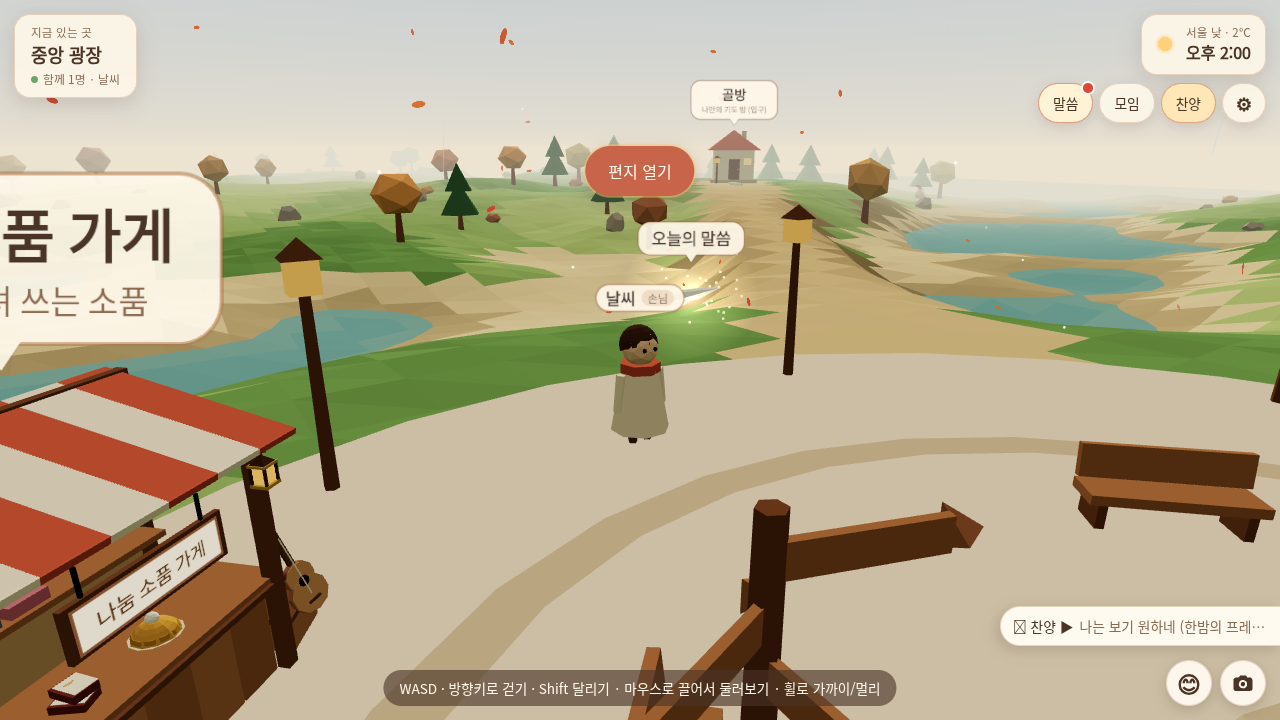
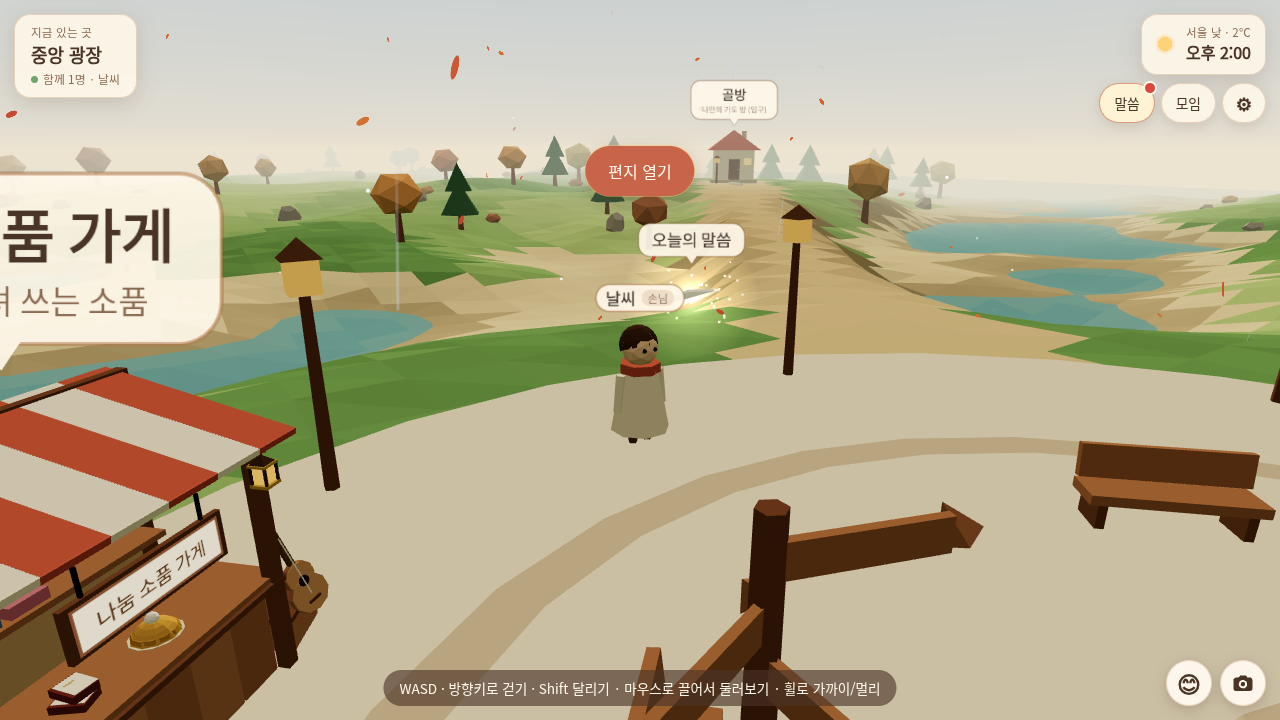
feat(weather): clouds drift west to east across the sky, faster with the real wind
Claude-Session: https://claude.ai/code/session_01QsWPXXpkTAwZLNvoEFaFKZ

diff --git a/client/src/world/Weather.ts b/client/src/world/Weather.ts
@@ -100,6 +100,13 @@ export class Weather {
   private readonly fireflies: Particles;
   private readonly clouds: THREE.InstancedMesh<THREE.BufferGeometry, THREE.MeshLambertMaterial>;
   private readonly cloudGroup = new THREE.Group();
+  /** Per-cloud layout; they drift across the sky with the wind and wrap around. */
+  private readonly cloudBase: { x: number; y: number; z: number; rot: number; w: number }[] = [];
+  private cloudDrift = 0;
+  private readonly cm = new THREE.Matrix4();
+  private readonly cq = new THREE.Quaternion();
+  private readonly cs = new THREE.Vector3();
+  private readonly cp = new THREE.Vector3();
   private readonly decor: SeasonDecor;
   /** Smoothed look (fades between kinds over a few seconds). */
   private readonly look: Look = { ...BASE };
@@ -169,10 +176,11 @@ export class Weather {
     for (let i = 0; i < CLOUDS_MAX; i++) {
       const a = i * 2.39996;
       const r = 150 + ((i * 53) % 90);
-      p.set(Math.cos(a) * r, 34 + ((i * 29) % 30), Math.sin(a) * r);
-      q.setFromAxisAngle(THREE.Object3D.DEFAULT_UP, a * 1.7);
-      const w = 16 + ((i * 17) % 14);
-      s.set(w, w * 0.36, w * 0.62);
+      const base = { x: Math.cos(a) * r, y: 34 + ((i * 29) % 30), z: Math.sin(a) * r, rot: a * 1.7, w: 16 + ((i * 17) % 14) };
+      this.cloudBase.push(base);
+      p.set(base.x, base.y, base.z);
+      q.setFromAxisAngle(THREE.Object3D.DEFAULT_UP, base.rot);
+      s.set(base.w, base.w * 0.36, base.w * 0.62);
       this.clouds.setMatrixAt(i, m.compose(p, q, s));
     }
     this.clouds.count = 0;
@@ -360,8 +368,22 @@ export class Weather {
 
     // Clouds: count by kind (quality-scaled a little), drifting slowly round the dome.
     this.cloudGroup.position.set(cam.position.x, 0, cam.position.z);
-    if (!this.reducedMotion) this.cloudGroup.rotation.y += dt * 0.006 * (0.5 + wind / 6);
     this.clouds.count = outdoor ? Math.round(L.clouds * (0.6 + 0.4 * QUALITY_SCALE[f.quality])) : 0;
+    // Drift west → east (Korea's prevailing westerlies), faster with real wind,
+    // wrapping across a 520 m band so the sky never empties.
+    if (!this.reducedMotion && this.clouds.count > 0) {
+      this.cloudDrift += dt * (2.5 + wind * 1.6);
+      const SPAN = 520;
+      for (let i = 0; i < this.clouds.count; i++) {
+        const b = this.cloudBase[i];
+        const x = ((b.x + this.cloudDrift + SPAN / 2) % SPAN + SPAN) % SPAN - SPAN / 2;
+        this.cp.set(x, b.y, b.z);
+        this.cq.setFromAxisAngle(THREE.Object3D.DEFAULT_UP, b.rot);
+        this.cs.set(b.w, b.w * 0.36, b.w * 0.62);
+        this.clouds.setMatrixAt(i, this.cm.compose(this.cp, this.cq, this.cs));
+      }
+      this.clouds.instanceMatrix.needsUpdate = true;
+    }
     const shade = L.shade * (1 - night * 0.55);
     this.clouds.material.color.setScalar(shade);
     this.clouds.material.emissiveIntensity = 0.5 * L.shade * (1 - night * 0.8) + this.flash * 0.8;
